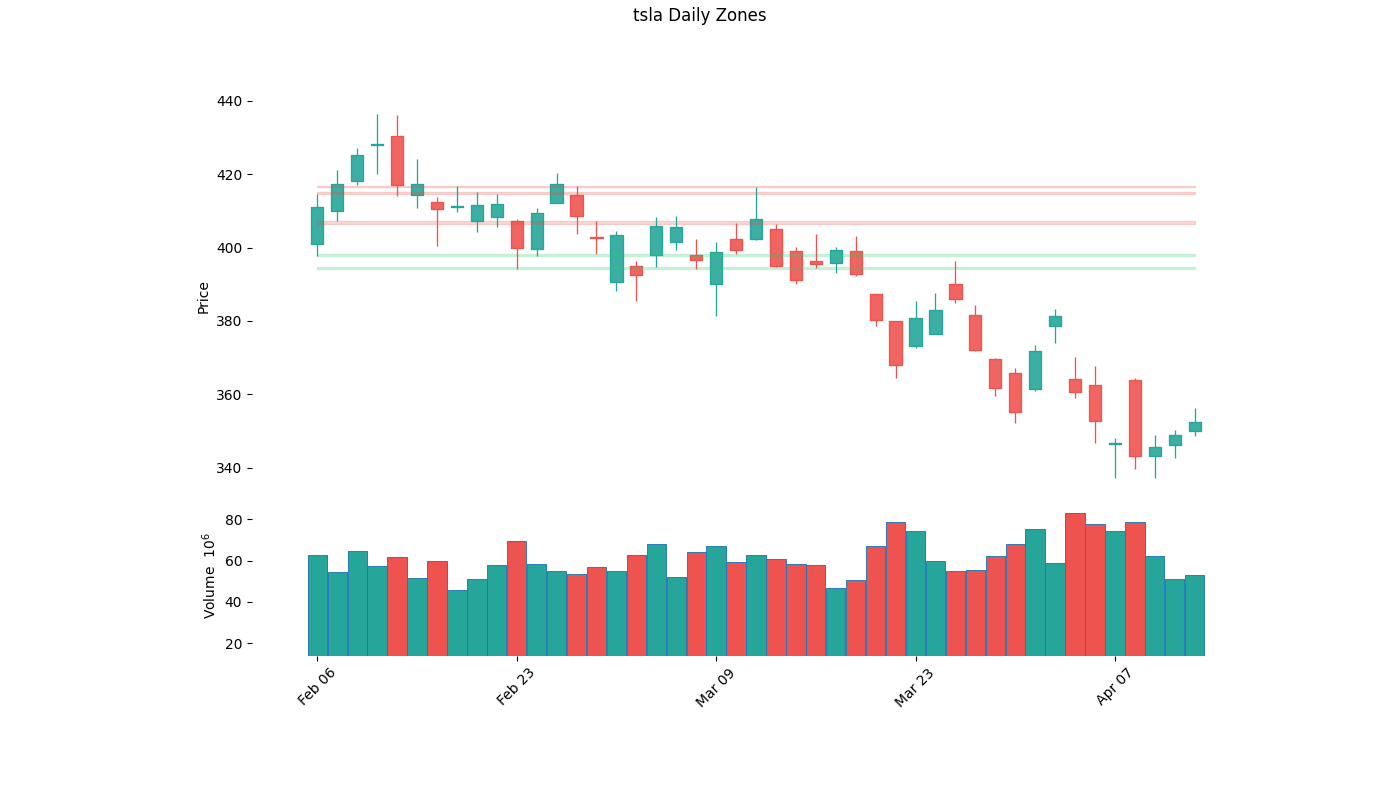
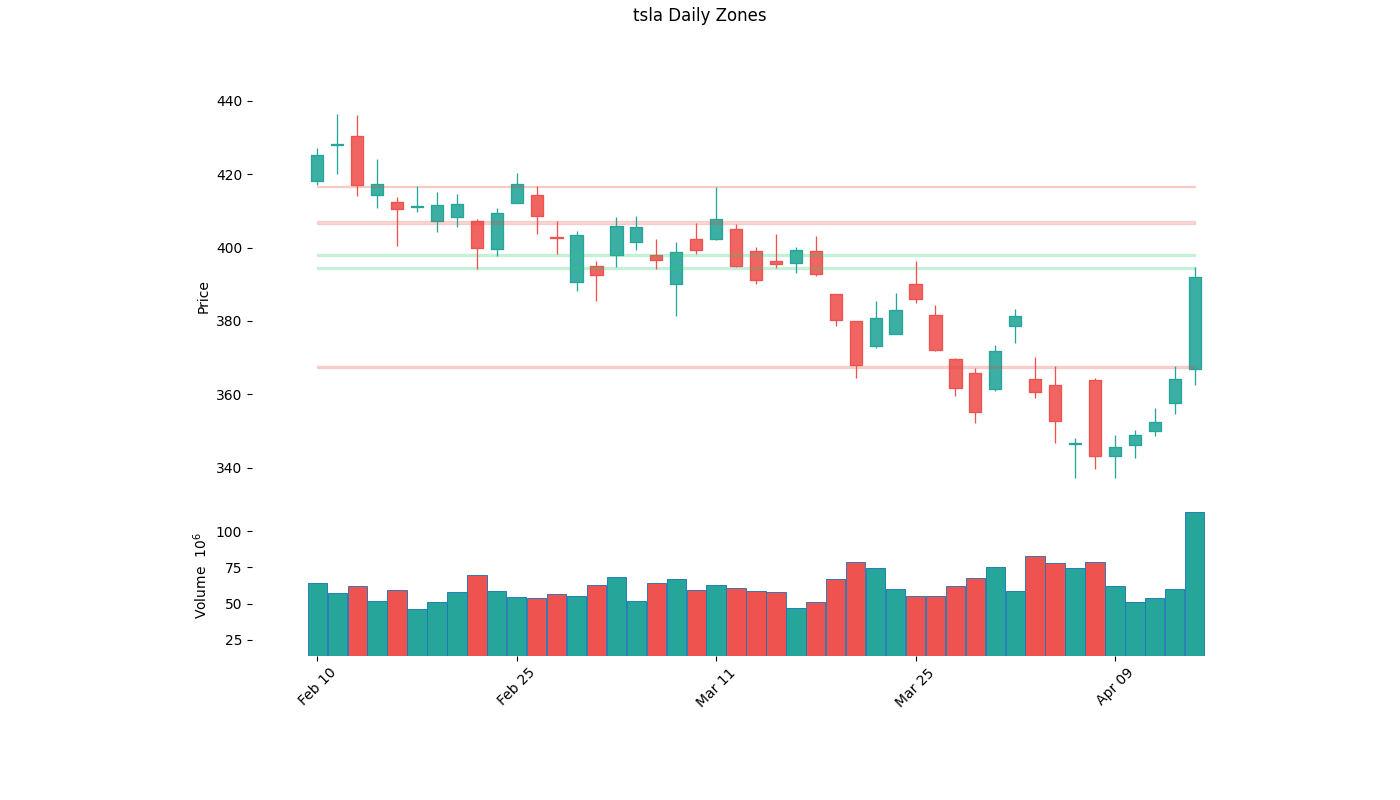
。
。

diff --git a/dashboard.py b/dashboard.py
@@ -4,7 +4,7 @@ import time
 from pathlib import Path
 from datetime import datetime
 from concurrent.futures import ThreadPoolExecutor, as_completed
-from datetime import datetime, timedelta
+from collections import defaultdict
 
 import requests
 from dotenv import load_dotenv
@@ -25,8 +25,10 @@ DISCORD_WEBHOOK_URL = os.getenv("DISCORD_WEBHOOK_URL_DASHBOARD")
 DASHBOARD_STATE_FILE = os.getenv("DASHBOARD_STATE_FILE", "dashboard_state.json")
 DASHBOARD_VIEW_FILE = os.getenv("DASHBOARD_VIEW_FILE", "dashboard_view.txt")
 FMP_API_KEY = os.getenv("FMP_API_KEY")
-CHECK_INTERVAL_SECONDS = 20
+CHECK_INTERVAL_SECONDS = int(os.getenv("CHECK_INTERVAL_SECONDS", 20))
 BREAK_MAX_PCT = float(os.getenv("BREAK_MAX_PCT", 0.3))
+
+PREV_DAY_LEVELS_CACHE: dict[str, dict] = {}
 
 
 def _ensure_folder(folder_name: str) -> Path:
@@ -112,6 +114,47 @@ def _load_zone_file(file_path: Path) -> dict:
         return json.load(f)
 
 
+def _get_unique_tickers(tickers: list[str]) -> list[str]:
+    seen = set()
+    unique = []
+
+    for ticker in tickers:
+        ticker_lc = ticker.lower()
+        if ticker_lc not in seen:
+            seen.add(ticker_lc)
+            unique.append(ticker_lc)
+
+    return unique
+
+
+def build_previous_day_levels_cache(tickers: list[str]) -> dict[str, dict]:
+    cache = {}
+
+    for ticker in tickers:
+        candles = get_daily_ohlc_3m(ticker, limit=3)
+
+        if len(candles) < 2:
+            raise ValueError(f"Not enough daily candles for {ticker}")
+
+        prev_day = candles[-2]
+        cache[ticker] = {
+            "date": prev_day["date"],
+            "high": float(prev_day["high"]),
+            "low": float(prev_day["low"]),
+        }
+
+    return cache
+
+
+def _get_previous_day_levels(ticker: str) -> dict:
+    ticker_lc = ticker.lower()
+
+    if ticker_lc not in PREV_DAY_LEVELS_CACHE:
+        raise ValueError(f"Previous day levels not cached for {ticker}")
+
+    return PREV_DAY_LEVELS_CACHE[ticker_lc]
+
+
 def save_zone_data_for_ticker(
     ticker: str,
     daily_limit: int = DAILY_LIMIT,
@@ -124,7 +167,16 @@ def save_zone_data_for_ticker(
     daily_dir = _ensure_folder(daily_folder)
     weekly_dir = _ensure_folder(weekly_folder)
 
-    daily_candles = get_daily_ohlc_3m(ticker, limit=daily_limit)
+    source_limit = max(daily_limit, weekly_limit)
+    all_daily_candles = get_daily_ohlc_3m(ticker, limit=source_limit)
+
+    if len(all_daily_candles) < daily_limit:
+        raise ValueError(
+            f"Not enough daily candles for {ticker}. "
+            f"Needed {daily_limit}, got {len(all_daily_candles)}"
+        )
+
+    daily_candles = all_daily_candles[-daily_limit:]
     daily_zones = detect_zones_from_daily(daily_candles)
 
     daily_payload = {
@@ -139,8 +191,7 @@ def save_zone_data_for_ticker(
     with daily_path.open("w", encoding="utf-8") as f:
         json.dump(daily_payload, f, indent=2)
 
-    weekly_source_daily = get_daily_ohlc_3m(ticker, limit=weekly_limit)
-    weekly_candles = convert_daily_to_weekly(weekly_source_daily)
+    weekly_candles = convert_daily_to_weekly(all_daily_candles)
     weekly_zones = detect_zones_from_weekly(
         weekly_candles,
         tolerance_pct=0.0075,
@@ -151,7 +202,7 @@ def save_zone_data_for_ticker(
     weekly_payload = {
         "ticker": ticker.upper(),
         "timeframe": "weekly",
-        "source_daily_lookback": weekly_limit,
+        "source_daily_lookback": source_limit,
         "weekly_candle_count": len(weekly_candles),
         "zone_count": len(weekly_zones),
         "zones": weekly_zones,
@@ -200,20 +251,7 @@ def save_zone_data_for_tickers(
     return results
 
 
-def _get_previous_day_levels(ticker: str) -> dict:
-    candles = get_daily_ohlc_3m(ticker, limit=3)
-    if len(candles) < 2:
-        raise ValueError(f"Not enough daily candles for {ticker}")
-
-    prev_day = candles[-2]
-    return {
-        "date": prev_day["date"],
-        "high": float(prev_day["high"]),
-        "low": float(prev_day["low"]),
-    }
-
-
-def _get_recent_5m_bars(ticker: str, limit: int = 200) -> list[dict]:
+def _get_recent_5m_bars(ticker: str, limit: int = 1000) -> list[dict]:
     if not FMP_API_KEY:
         raise ValueError("FMP_API_KEY is missing in .env")
 
@@ -246,56 +284,46 @@ def _get_recent_5m_bars(ticker: str, limit: int = 200) -> list[dict]:
     return bars[-limit:]
 
 
-from datetime import datetime, timedelta
-
-
-def _get_latest_closed_5m_bar(ticker: str) -> dict:
-    bars = _get_recent_5m_bars(ticker, limit=10)
-
+def _get_latest_closed_5m_bar_from_bars(bars: list[dict], ticker: str) -> dict:
     if len(bars) < 2:
         raise ValueError(f"Not enough 5-minute bars for {ticker}")
-
-    # ALWAYS use previous candle (fully closed)
     return bars[-2]
 
 
+def _get_latest_5m_volume_ratio_from_bars(bars: list[dict], ticker: str) -> dict:
+    if len(bars) < 2:
+        raise ValueError(f"Not enough 5-minute bars for {ticker}")
 
-
-
-def _get_latest_5m_volume_ratio(ticker: str) -> dict:
-    bars = _get_recent_5m_bars(ticker, limit=1000)
-
-    if not bars:
-        raise ValueError(f"No 5-minute bars found for {ticker}")
-
-    latest_bar = bars[-1]
+    latest_bar = _get_latest_closed_5m_bar_from_bars(bars, ticker)
     latest_dt = latest_bar["date"]
 
-    if not latest_dt or " " not in latest_dt:
-        raise ValueError(f"Unexpected datetime format for {ticker}: {latest_dt}")
+    daily_groups: dict[str, list[dict]] = defaultdict(list)
 
-    latest_date = datetime.strptime(latest_dt, "%Y-%m-%d %H:%M:%S").date()
-
-    # get last 5 days (calendar, not exact trading days but works well)
-    cutoff_date = latest_date - timedelta(days=7)
-
-    recent_bars = []
-    for b in bars:
-        dt = b["date"]
-        if not dt:
+    for bar in bars[:-1]:
+        dt = bar.get("date", "")
+        if not dt or " " not in dt:
             continue
+        day = dt.split(" ")[0]
+        daily_groups[day].append(bar)
 
-        d = datetime.strptime(dt, "%Y-%m-%d %H:%M:%S").date()
+    days = sorted(daily_groups.keys())
 
-        if cutoff_date <= d <= latest_date:
-            recent_bars.append(b)
+    if len(days) < 5:
+        raise ValueError(
+            f"Need at least 5 trading days of 5-minute bars for {ticker}, got {len(days)}"
+        )
 
-    if not recent_bars:
-        raise ValueError(f"No recent 5-day bars found for {ticker}")
+    last_5_days = days[-5:]
 
-    avg_volume = sum(b["volume"] for b in recent_bars) / len(recent_bars)
+    baseline_bars = []
+    for day in last_5_days:
+        baseline_bars.extend(daily_groups[day])
+
+    if not baseline_bars:
+        raise ValueError(f"No baseline 5-minute bars found for {ticker}")
+
+    avg_volume = sum(bar["volume"] for bar in baseline_bars) / len(baseline_bars)
     latest_volume = latest_bar["volume"]
-
     ratio = 0.0 if avg_volume <= 0 else latest_volume / avg_volume
 
     return {
@@ -303,14 +331,12 @@ def _get_latest_5m_volume_ratio(ticker: str) -> dict:
         "avg_volume": avg_volume,
         "ratio": ratio,
         "bar_time": latest_dt,
+        "days_used": last_5_days,
     }
 
 
-def _find_recent_break(ticker: str) -> dict | None:
+def _find_recent_break(ticker: str, live_price: float) -> dict | None:
     prev_day = _get_previous_day_levels(ticker)
-
-    # ✅ use LIVE price instead of candle
-    price = get_live_price_full(ticker)
 
     prev_high = float(prev_day["high"])
     prev_low = float(prev_day["low"])
@@ -319,21 +345,19 @@ def _find_recent_break(ticker: str) -> dict | None:
     upper_limit = prev_high * (1 + pct)
     lower_limit = prev_low * (1 - pct)
 
-    # ✅ BREAK HIGH using live price
-    if price > prev_high and price <= upper_limit:
+    if live_price > prev_high and live_price <= upper_limit:
         return {
             "type": "BREAK HIGH",
             "level": round(prev_high, 2),
-            "trigger_price": round(price, 2),
+            "trigger_price": round(live_price, 2),
             "trigger_time": datetime.now().strftime("%Y-%m-%d %H:%M:%S"),
         }
 
-    # ✅ BREAK LOW using live price
-    if price < prev_low and price >= lower_limit:
+    if live_price < prev_low and live_price >= lower_limit:
         return {
             "type": "BREAK LOW",
             "level": round(prev_low, 2),
-            "trigger_price": round(price, 2),
+            "trigger_price": round(live_price, 2),
             "trigger_time": datetime.now().strftime("%Y-%m-%d %H:%M:%S"),
         }
 
@@ -372,13 +396,14 @@ def _check_ticker_worker(
 
     recent_break = None
     try:
-        recent_break = _find_recent_break(ticker_lc)
+        recent_break = _find_recent_break(ticker_lc, price)
     except Exception as e:
         print(f"Break check skipped for {ticker.upper()}: {e}")
 
     volume_ratio = None
     try:
-        volume_ratio = _get_latest_5m_volume_ratio(ticker_lc)
+        bars = _get_recent_5m_bars(ticker_lc, limit=1000)
+        volume_ratio = _get_latest_5m_volume_ratio_from_bars(bars, ticker_lc)
     except Exception as e:
         print(f"Volume ratio skipped for {ticker.upper()}: {e}")
 
@@ -517,7 +542,7 @@ def monitor_tickers_and_update_dashboard(
 
                 if result.get("volume_ratio"):
                     parts.append(
-                        f"vol {result['volume_ratio']['ratio']:.2f}x"
+                        f"vol {result['volume_ratio']['ratio']:.2f}"
                     )
 
                 if result["hits"]:
@@ -538,9 +563,14 @@ if __name__ == "__main__":
         "pltr", "nflx", "mstr", "hood", "coin", "hood"
     ]
 
+    unique_tickers = _get_unique_tickers(tickers)
+
+    print("Building previous-day cache...")
+    PREV_DAY_LEVELS_CACHE = build_previous_day_levels_cache(unique_tickers)
+
     print("Generating zone data...")
     save_zone_data_for_tickers(
-        tickers=tickers,
+        tickers=unique_tickers,
         daily_limit=DAILY_LIMIT,
         weekly_limit=WEEKLY_LIMIT,
     )
@@ -551,8 +581,8 @@ if __name__ == "__main__":
         try:
             print(f"Running check at {datetime.now().strftime('%Y-%m-%d %H:%M:%S')}")
             monitor_tickers_and_update_dashboard(
-                tickers=tickers,
-                max_workers=len(tickers),
+                tickers=unique_tickers,
+                max_workers=len(unique_tickers),
             )
         except Exception as e:
             print("Error in main loop:", e)

diff --git a/zone_drawer.py b/zone_drawer.py
@@ -172,7 +172,7 @@ if __name__ == "__main__":
      "aapl", "amzn", "amd", "avgo", "asml",
     "googl", "intc", "meta", "msft", "nvda",
     "orcl", "pltr", "rddt", "sndk", "stx","intc"
-    ,"nflx","mstr","hood","coin","pltr","baba","uso","xom","xle"]
+    ,"nflx","mstr","hood","coin","pltr","baba","uso","xom","xle","hood"]
 
     for ticker in tickers:
         try:
